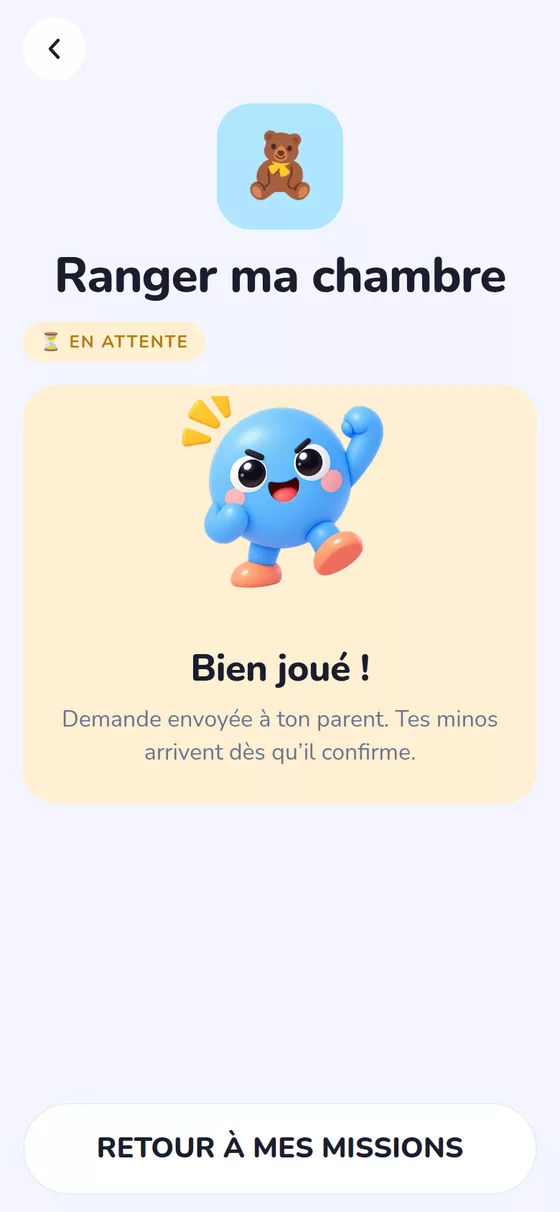
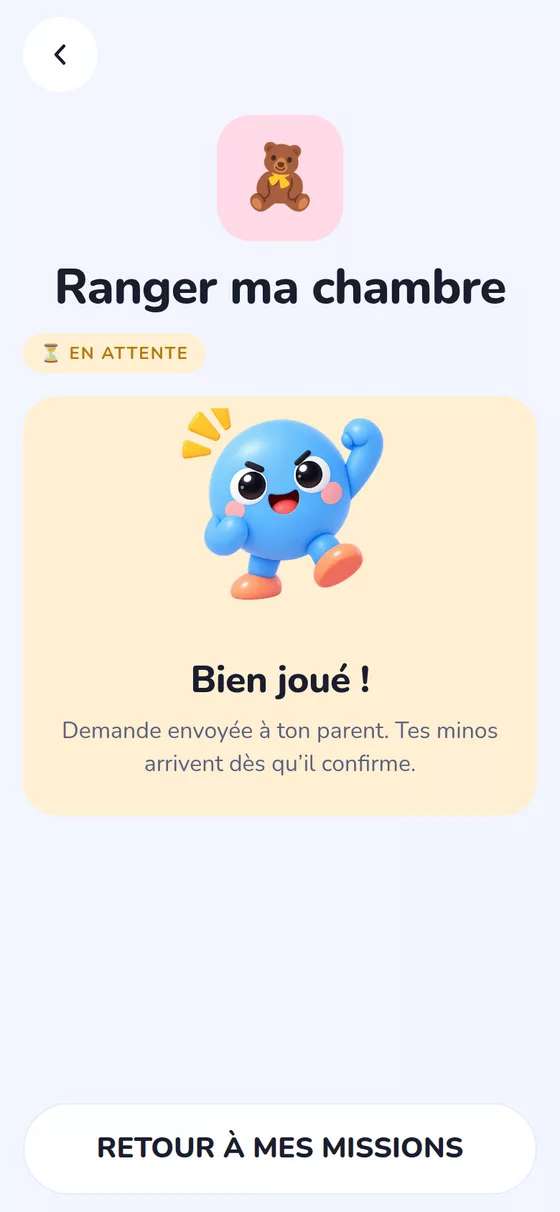
Refaire les captures avec la nouvelle encre, et documenter l'audit
Claude-Session: https://claude.ai/code/session_01WVGKbeu4m73DhBqTKAMR3g

Changed region(s): [[0.0304, 0.0611, 0.9411, 0.519], [0.0304, 0.519, 0.9714, 0.6716], [0.0911, 0.0305, 0.1214, 0.0611]]

diff --git a/docs/ARCHITECTURE.md b/docs/ARCHITECTURE.md
@@ -192,6 +192,7 @@ minutes**, et il tient à quatre garde-fous côté base, tous vérifiés par
 npm run typecheck   # TypeScript strict, zéro erreur attendue
 npm test            # 194 tests
 npm run test:sql    # applique le schéma sur un PostgreSQL jetable et l'attaque
+npm run audit:a11y  # mesure surfaces tactiles et contrastes sur le rendu réel
 npm run licences    # aucune licence contaminante embarquée
 npm run faq         # régénère docs/support/ si la FAQ a changé
 ```
@@ -205,6 +206,17 @@ vrai, **puis les réapplique** sur la base déjà en place — c'est le cas rée
 base vide n'arrive qu'une fois dans la vie du produit — et joue enfin
 vingt-sept tentatives depuis une session d'appareil : se compter la mission
 d'un frère, rejouer une récompense, se signer du nom d'un parent.
+
+`audit:a11y` mérite le même mot. « Gros boutons atteignables par un enfant de
+5 ans, icône + texte, contraste suffisant » était affirmé depuis le début et
+jamais mesuré. Premier passage : **44 cibles trop petites et 63 contrastes
+insuffisants** — le bleu de marque écrit sur du blanc donne 2,22:1 quand le
+seuil lisible est 4,5:1. La palette n'a pas changé pour autant : des encres de
+la même teinte portent le texte, et les couleurs vives gardent tous les aplats.
+Sur les aplats, c'est le marine qui écrit (7,5:1), décision prise entre trois
+options mesurées. Le seul écart assumé — la flèche de retour à 52 px — est
+déclaré dans le script avec sa raison et reste affiché : un audit dont on
+baisse le seuil jusqu'à ce qu'il passe ne mesure plus rien.
 
 Et surtout : **rejouer le parcours 35 → 50 minutes dans l'application**, et de
 temps en temps **la vraie première ouverture**, sans la démo — créer un compte,
